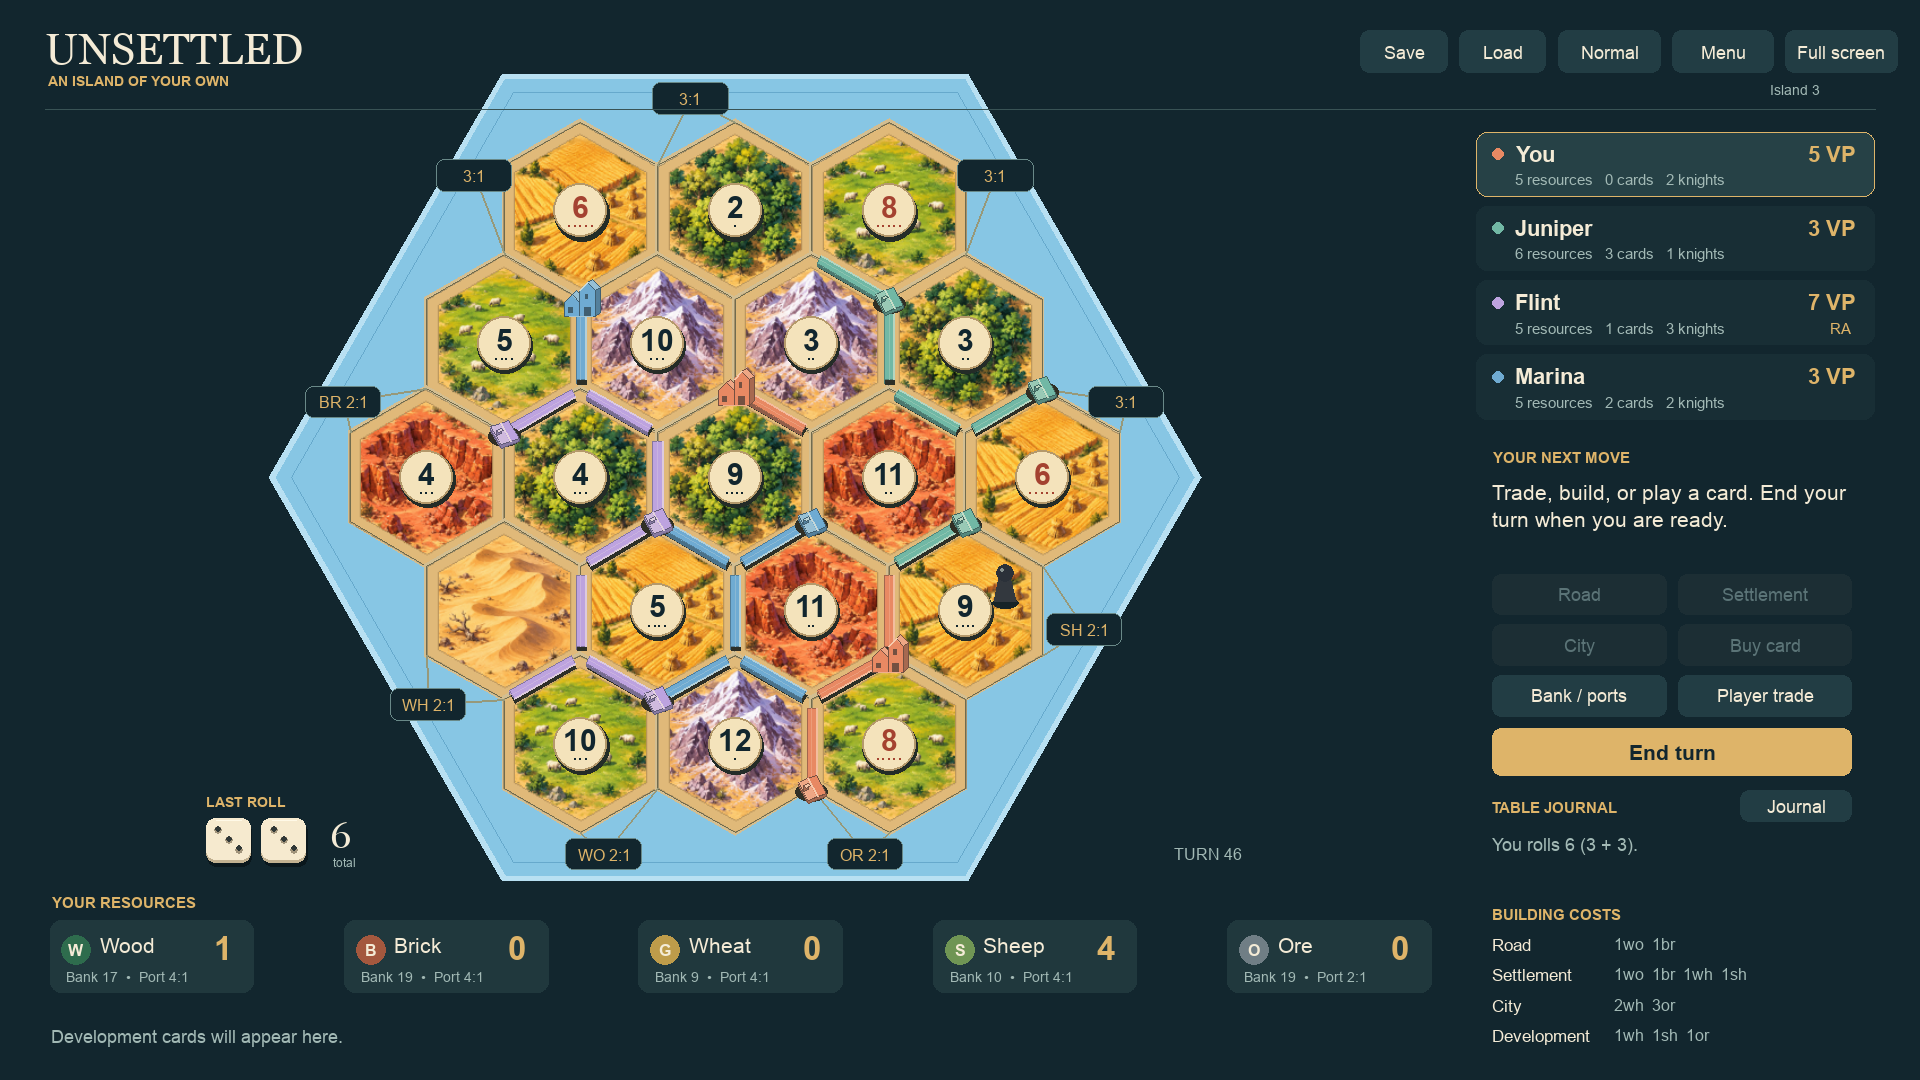
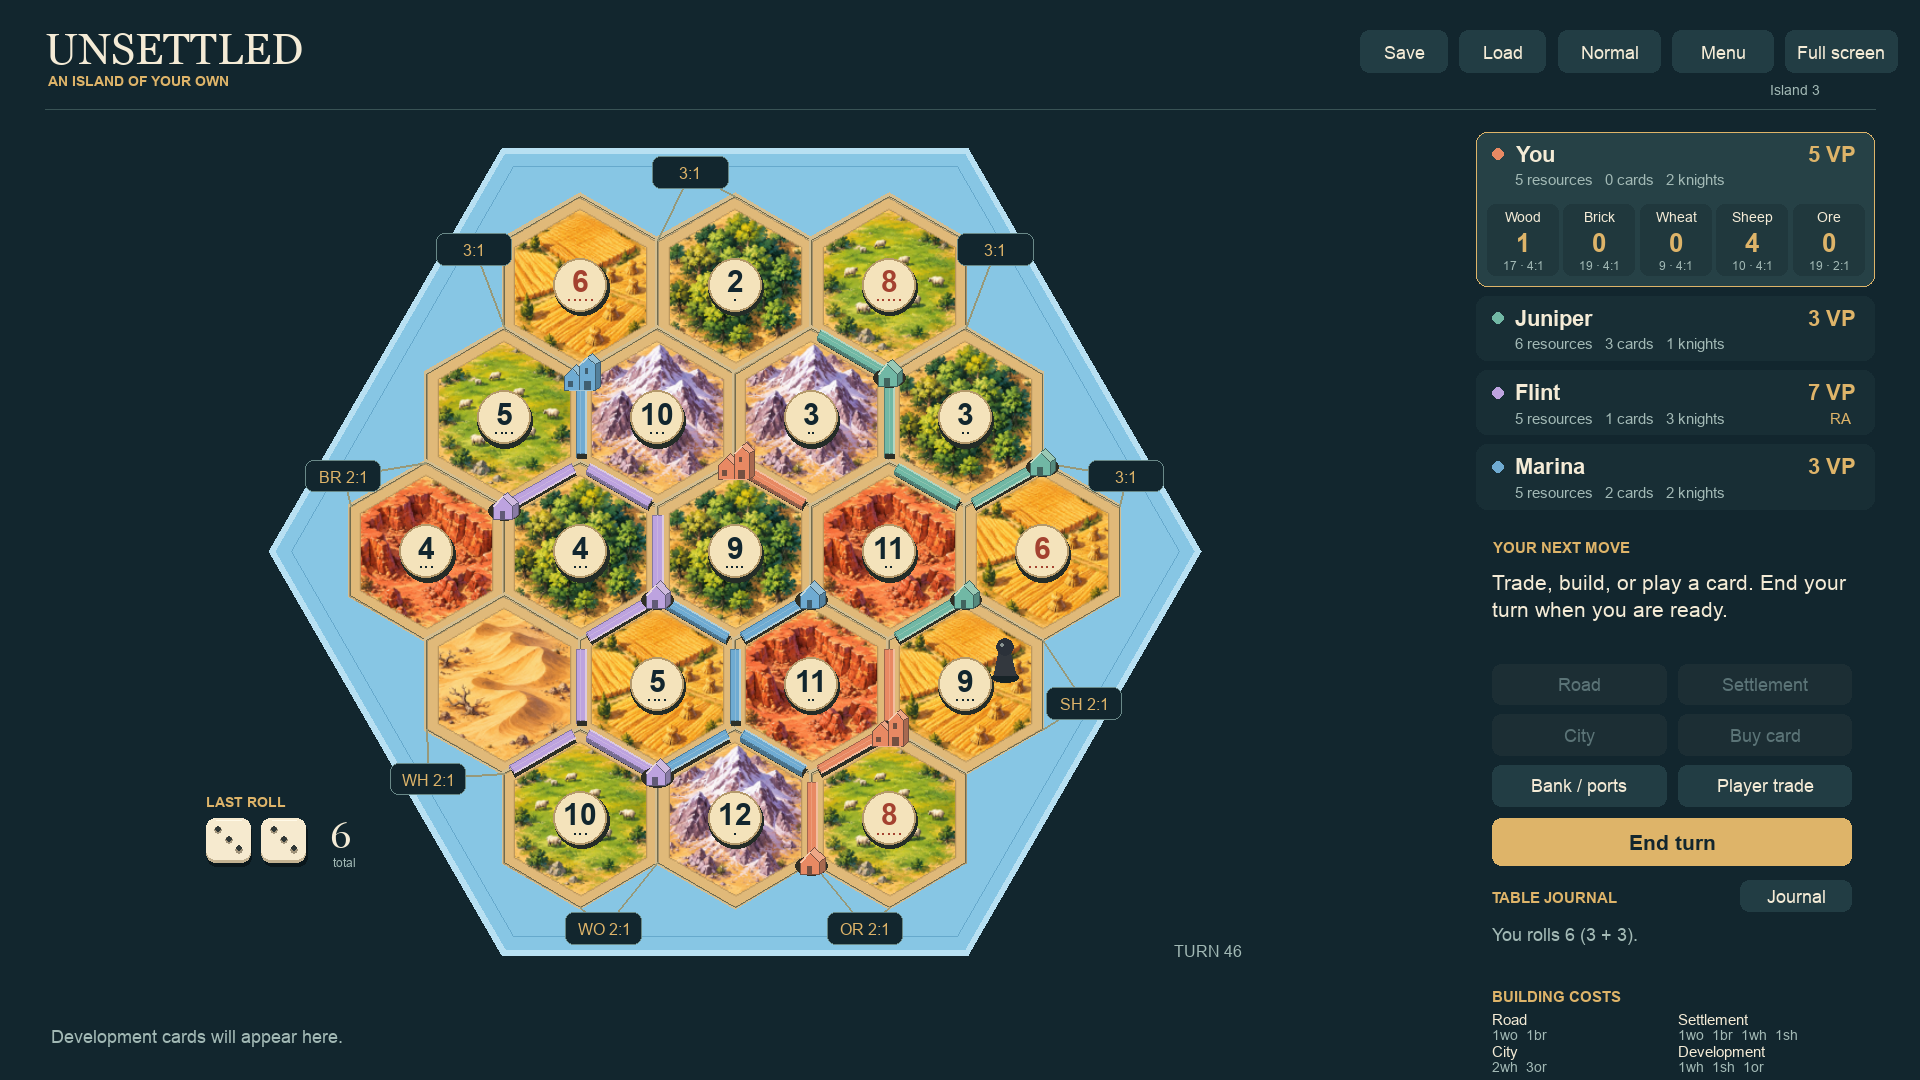
Move resource counters into player panel and clear the board header

diff --git a/unsettled/ui.py b/unsettled/ui.py
@@ -242,11 +242,11 @@ class App:
     def screen_point(self, v):
         x, y = self.game.board.vertices[v]
         return (int(520 + (self.width - W) / 2 + x * 79),
-                int(424 + (self.height - H) / 2 + y * 79))
+                int(490 + (self.height - H) / 2 + y * 79))
 
     def hex_center(self, h):
         tile = self.game.board.hexes[h]
-        return (int(520 + (self.width - W) / 2 + math.sqrt(3) * (tile["q"] + tile["r"] / 2) * 79), int(424 + (self.height - H) / 2 + 1.5 * tile["r"] * 79))
+        return (int(520 + (self.width - W) / 2 + math.sqrt(3) * (tile["q"] + tile["r"] / 2) * 79), int(490 + (self.height - H) / 2 + 1.5 * tile["r"] * 79))
 
     def tile(self, resource):
         key = (resource, self.scale)
@@ -279,7 +279,7 @@ class App:
 
     def water_outline(self, radius=414):
         return [(520 + (self.width - W) / 2 + radius * math.cos(i * math.pi / 3),
-                 424 + (self.height - H) / 2 + radius * math.sin(i * math.pi / 3)) for i in range(6)]
+                 490 + (self.height - H) / 2 + radius * math.sin(i * math.pi / 3)) for i in range(6)]
 
     def draw_board(self):
         g = self.game
@@ -296,7 +296,7 @@ class App:
         for edge, kind in g.board.ports.items():
             a, b = [self.screen_point(v) for v in g.board.edges[edge]]
             mid = ((a[0] + b[0]) / 2, (a[1] + b[1]) / 2)
-            dx, dy = mid[0] - 520 - (self.width - W) / 2, mid[1] - 424 - (self.height - H) / 2
+            dx, dy = mid[0] - 520 - (self.width - W) / 2, mid[1] - 490 - (self.height - H) / 2
             length = math.hypot(dx, dy)
             x, y = mid[0] + dx / length * 41, mid[1] + dy / length * 41
             for end in (a, b):
@@ -386,16 +386,13 @@ class App:
             self.polygon(edge, points, 1)
 
         if size == 1:
-            # Overhead carved-house token: its roof footprint is centered on
-            # the intersection rather than placing a facade below the seams.
-            face([(-12, -5), (-3, 11), (13, 5), (13, 8), (-3, 14), (-12, -2)], shade)
-            face([(-12, -5), (-4, -8), (5, 8), (-3, 11)], roof)
-            face([(-4, -8), (4, -11), (13, 5), (5, 8)], base)
-            self.line(self.piece_tone(owner, .60), (x - 4, y - 8), (x + 5, y + 8), 2)
-            self.line(self.piece_tone(owner, .38), (x - 11, y - 5), (x - 3, y + 10), 1)
-            # A raised chimney keeps the overhead roof readable as a house.
-            face([(-7, -2), (-3, -4), (-3, 1), (-7, 3)], shade)
-            face([(-7, -2), (-3, -4), (-1, -2), (-5, 0)], self.piece_tone(owner, .55))
+            # A compact 3D house, matching the city's painted wooden faces.
+            y += 3
+            face([(-10, 8), (-10, -3), (-2, -12), (7, -3), (7, 8)], base)
+            face([(7, 8), (12, 4), (12, -7), (7, -3)], shade)
+            face([(-2, -12), (3, -16), (12, -7), (7, -3)], roof)
+            self.line(self.piece_tone(owner, .62), (x - 10, y - 3), (x - 2, y - 12), 2)
+            self.panel((x - 4, y + 1, 5, 7), edge, 1)
         else:
             # A broad hall and taller keep distinguish cities at a glance.
             face([(-15, 9), (-15, -4), (-8, -11), (-1, -4), (-1, 9)], base)
@@ -469,8 +466,8 @@ class App:
     def draw_players(self):
         g = self.game
         for i, p in enumerate(g.players):
-            y = 117 + i * 66
-            self.panel((1045, y, 355, 58), (38, 65, 70) if i == g.current else PANEL, 10, GOLD if i == g.current else None)
+            y = 117 + i * 66 + (80 if i else 0)
+            self.panel((1045, y, 355, 138 if i == 0 else 58), (38, 65, 70) if i == g.current else PANEL, 10, GOLD if i == g.current else None)
             self.circle(COLORS[i], (1065, y + 20), 5)
             self.text(p.name, 1080, y + 9, 20, LIGHT, bold=True)
             points = g.points(i, i == 0 or g.winner is not None)
@@ -480,6 +477,14 @@ class App:
             badges = ("R" if g.longest == i else "") + ("A" if g.army == i else "")
             if badges:
                 self.text(badges, 1360, y + 35, 13, GOLD)
+
+        # Keep private resource counts beside your own public player details.
+        for i, r in enumerate(RESOURCES):
+            x = 1055 + i * 68
+            self.panel((x, 181, 64, 64), (32, 56, 61), 7)
+            self.text(r.title(), x + 32, 193, 12, LIGHT, center=True)
+            self.text(g.players[0].hand[r], x + 32, 216, 23, GOLD, bold=True, center=True)
+            self.text(f"{g.bank[r]} · {g.ratio(0, r)}:1", x + 32, 236, 11, MUTED, center=True)
 
     def draw_actions(self):
         g = self.game
@@ -524,9 +529,10 @@ class App:
                     self.button(g.players[victim].name, (1060, y + i * 44, 320, 37), lambda v=victim: self.act("steal", victim=v))
             elif g.phase == "road_building":
                 self.button("Finish free roads", (1060, y, 320, 42), lambda: self.act("skip_roads"))
-        with self.shifted(-(self.width - W) / 2, self.height - H):
-            self.draw_dice()
-            self.text(f"TURN {g.turn + 1}", 910, 751, 14, MUTED)
+
+    def draw_board_status(self):
+        self.draw_dice()
+        self.text(f"TURN {self.game.turn + 1}", 910, 837, 14, MUTED)
 
     def resource_icon(self, r, x, y):
         color = TERRAIN[TILE_ORDER.index(r)]
@@ -536,19 +542,12 @@ class App:
 
     def draw_hand(self):
         g = self.game
-        self.text("YOUR RESOURCES", 45, 795, 13, GOLD, bold=True)
         with self.shifted(self.width - W):
-            self.text("BUILDING COSTS", 1060, 805, 13, GOLD, bold=True)
+            self.text("BUILDING COSTS", 1060, 878, 13, GOLD, bold=True)
             for i, (kind, cost) in enumerate(COSTS.items()):
-                self.text(kind.title(), 1060, 831 + i * 27, 15, LIGHT)
-                self.text("  ".join(f"{n}{r[:2]}" for r, n in cost.items()), 1168, 831 + i * 27, 14, MUTED)
-        for i, r in enumerate(RESOURCES):
-            x = 44 + i * (195 + (self.width - W) / 4)
-            self.panel((x, 818, 182, 65), (32, 56, 61), 10)
-            self.resource_icon(r, x + 24, 844)
-            self.text(r.title(), x + 45, 829, 19, LIGHT)
-            self.text(g.players[0].hand[r], x + 154, 843, 29, GOLD, bold=True, center=True)
-            self.text(f"Bank {g.bank[r]}  •  Port {g.ratio(0, r)}:1", x + 15, 861, 12, MUTED)
+                x, y = 1060 + (i % 2) * 165, 899 + (i // 2) * 28
+                self.text(kind.title(), x, y, 13, LIGHT)
+                self.text("  ".join(f"{n}{r[:2]}" for r, n in cost.items()), x, y + 14, 12, MUTED)
         counts = CounterCards(g.players[0].cards)
         x = 45
         if not counts:
@@ -719,11 +718,15 @@ class App:
         else:
             with self.shifted(self.width - W):
                 self.draw_players()
-                self.draw_actions()
+                with self.shifted(y=80):
+                    self.draw_actions()
+            with self.shifted((self.width - W) / 2, self.height - H):
+                self.draw_board_status()
             with self.shifted(y=self.height - H):
                 self.draw_hand()
             with self.shifted(self.width - W, self.height - H):
-                self.draw_log()
+                with self.shifted(y=80):
+                    self.draw_log()
         if self.modal:
             with self.shifted((self.width - W) / 2, (self.height - H) / 2):
                 self.draw_modal()

diff --git a/tests/test_ui.py b/tests/test_ui.py
@@ -139,6 +139,10 @@ def test_native_rendering_and_input_survive_resize(app, monkeypatch, size):
     scale, viewport = app.viewport()
     assert app.canvas.get_size() == size
     assert viewport == pg.Rect(0, 0, *size)
+    # The whole sea frame clears the title bar and leaves room for the footer.
+    sea_y = [point[1] for point in app.water_outline()]
+    assert min(sea_y) > 97 + 20
+    assert max(sea_y) < app.height - 60
     # The sidebar follows the right edge at every aspect ratio.
     sidebar = app.rect((1045 + app.width - 1440, 117, 355, 58))
     assert app.canvas.get_at(sidebar.center)[:3] != (18, 38, 46)
@@ -173,11 +177,11 @@ def test_water_has_blue_hexagonal_outline(app):
     app.render()
     # Water reaches the six-sided frame's tips; its cutaway corners reveal the
     # surrounding tabletop rather than filling an oval or rectangle.
-    assert app.canvas.get_at((120, 424))[:3] == WATER
-    assert app.canvas.get_at((900, 424))[:3] == WATER
-    assert app.canvas.get_at((520, 80))[:3] == WATER
-    assert app.canvas.get_at((200, 200))[:3] == INK
-    assert app.canvas.get_at((840, 640))[:3] == INK
+    assert app.canvas.get_at((120, 490))[:3] == WATER
+    assert app.canvas.get_at((900, 490))[:3] == WATER
+    assert app.canvas.get_at((520, 146))[:3] == WATER
+    assert app.canvas.get_at((200, 266))[:3] == INK
+    assert app.canvas.get_at((840, 706))[:3] == INK
 
 
 def test_fullscreen_restores_window_and_preserves_game(app, monkeypatch):

diff --git a/README.md b/README.md
@@ -89,10 +89,13 @@ Click **Set sail** to start.
 - **Full screen**, **F11**, or **Cmd+F** / **Ctrl+F** toggles full-screen mode.
   **Escape** returns to the window after closing any dialog or build tool.
   Resizing and full-screen mode use the entire window: controls anchor to the
-  right, resources to the bottom, and the board centers in the remaining area.
+  right, resource counters sit beneath your player details, and the board
+  centers below the title bar.
   Tiles keep their proportions and text stays sharp.
 
-Your resource cards and development-card identities remain private. Opponent
+Your resource counters appear inside your player panel on the right. Each shows
+your count, with the bank supply and port ratio underneath. Your resource cards
+and development-card identities remain private. Opponent
 hand sizes, development-card counts, played knights, and public victory points
 are visible. **R** and **A** mark Longest Road and Largest Army. Opponents' hidden
 Victory Point cards are revealed in their scores at game end. First to at least
